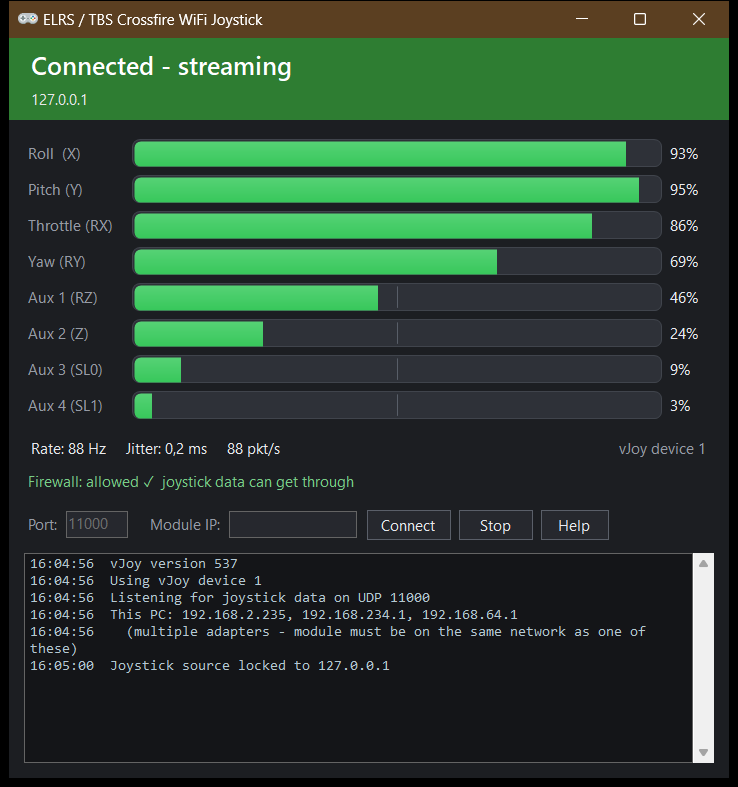
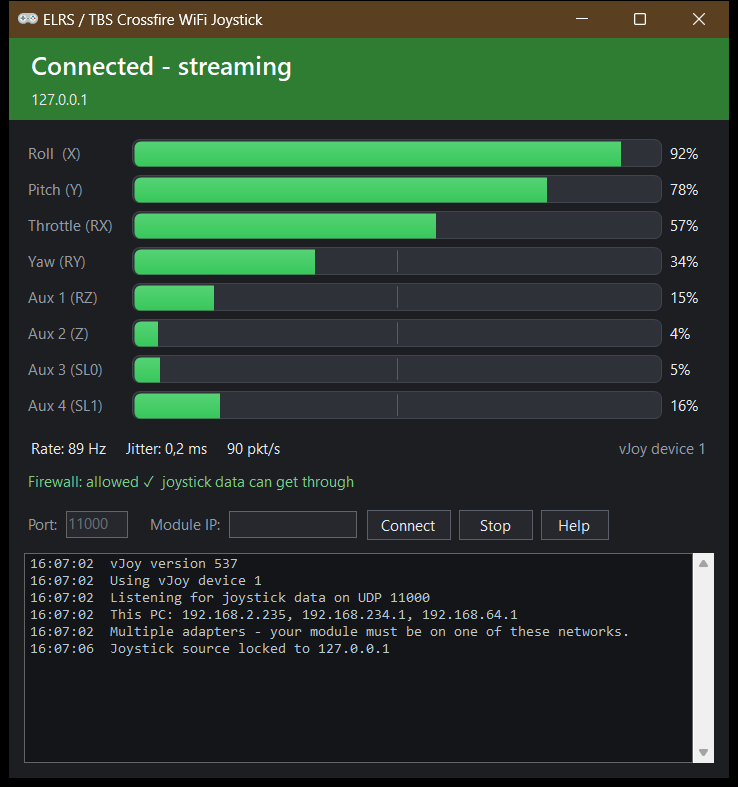
Tidy the multi-adapter log line
Remove the extra indent (so it lines up with other log entries) and shorten it
so it no longer wraps. Refresh the screenshot to match.

Claude-Session: https://claude.ai/code/session_01XBKgTA2ABQdDWp9rooXASP

diff --git a/JoystickEngine.cs b/JoystickEngine.cs
@@ -203,7 +203,7 @@ namespace ELRSWifiJoystick
                 {
                     Log?.Invoke($"This PC: {string.Join(", ", ips)}");
                     if (ips.Count > 1)
-                        Log?.Invoke("  (multiple adapters - module must be on the same network as one of these)");
+                        Log?.Invoke("Multiple adapters - your module must be on one of these networks.");
                 }
             }
             catch { }